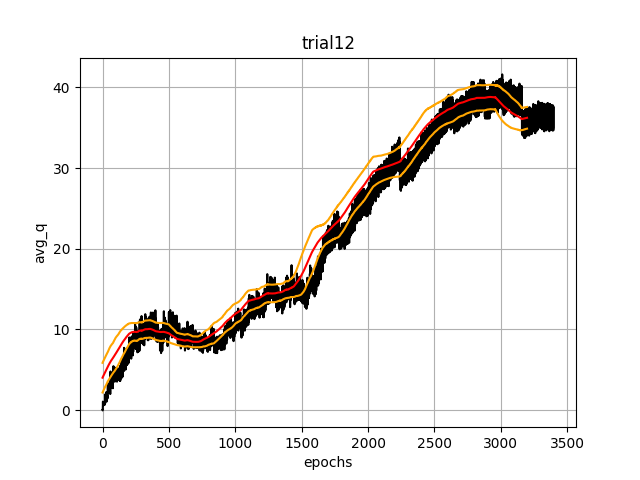
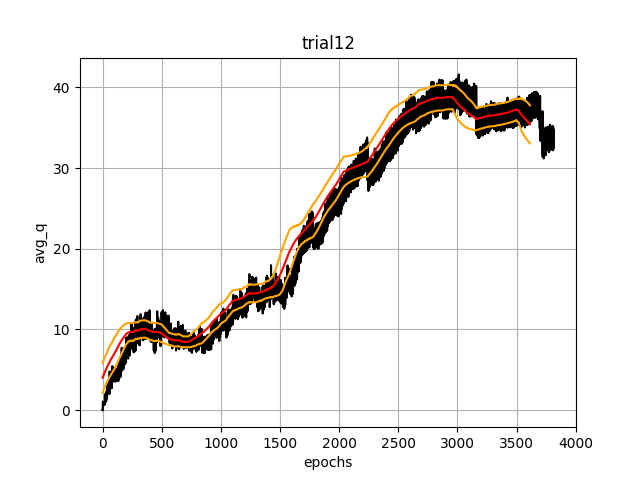
a

Changed region(s): [[0.1562, 0.125, 0.875, 0.8125], [0.3125, 0.9062, 0.9375, 0.9375], [0.2188, 0.9062, 0.2812, 0.9375]]

diff --git a/python/main.py b/python/main.py
@@ -18,7 +18,7 @@ from tRexDriver import ChromeDriver  # noqa: E402
 from tensorflow.python.keras.activations import relu  # noqa: E402
 from tensorflow.python.keras.layers import Conv2D, Flatten, Dense, Input, Add, Subtract, Lambda  # noqa: E402
 from tensorflow.python.keras.models import Model  # noqa: E402
-from tensorflow.python.keras.optimizers import RMSprop  # noqa: E402
+from tensorflow.python.keras.optimizers import RMSprop, Adam  # noqa: E402
 from argparse import ArgumentParser  # noqa: E402
 import ipdb  # noqa: E402, F401
 
@@ -60,7 +60,8 @@ def create_model_config():
         'batch_size': 32,
         'metrics': ['mse'],
         'loss': 'logcosh',
-        'optimizer': RMSprop(lr=0.00025, rho=0.9, epsilon=None, decay=0),
+#        'optimizer': RMSprop(lr=0.00025, rho=0.9, epsilon=None, decay=0),
+        'optimizer': Adam(lr=0.00025, beta_1=0.9, beta_2=0.999, epsilon=None, decay=0.0, amsgrad=False),
         'discount_factor': 0.95,
         'num_actions': 2
     }
